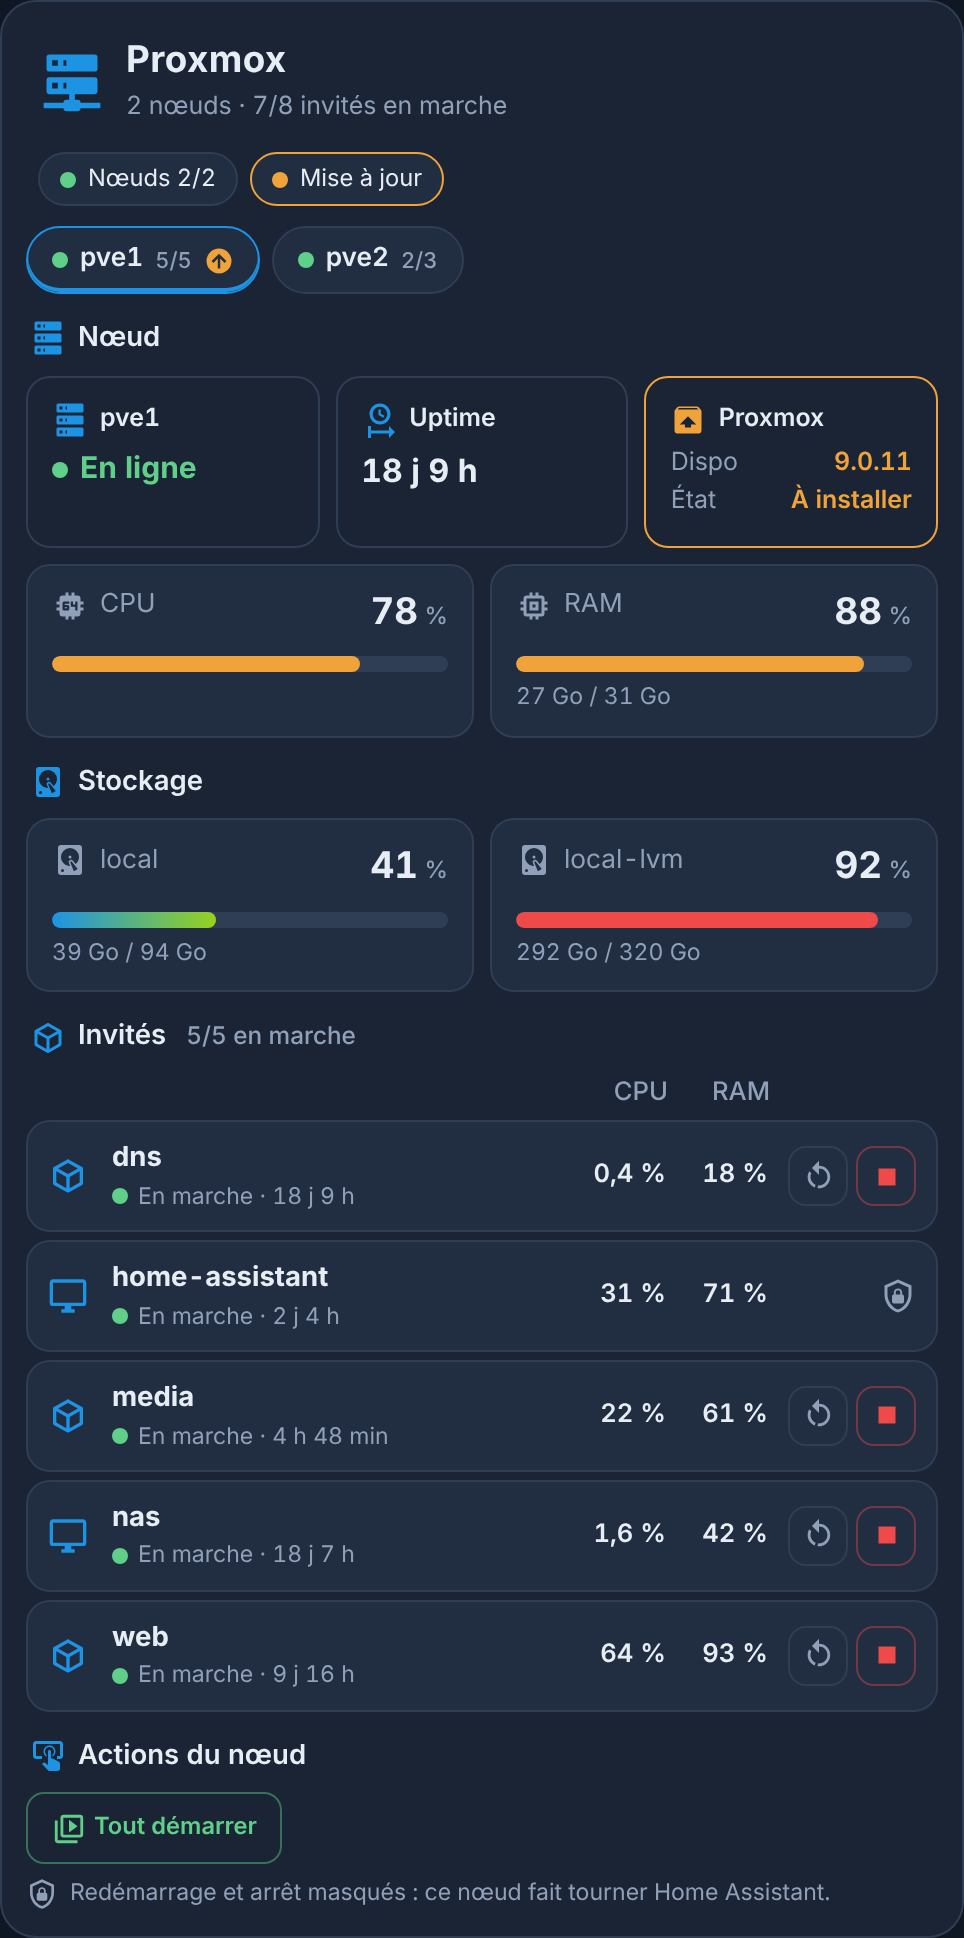
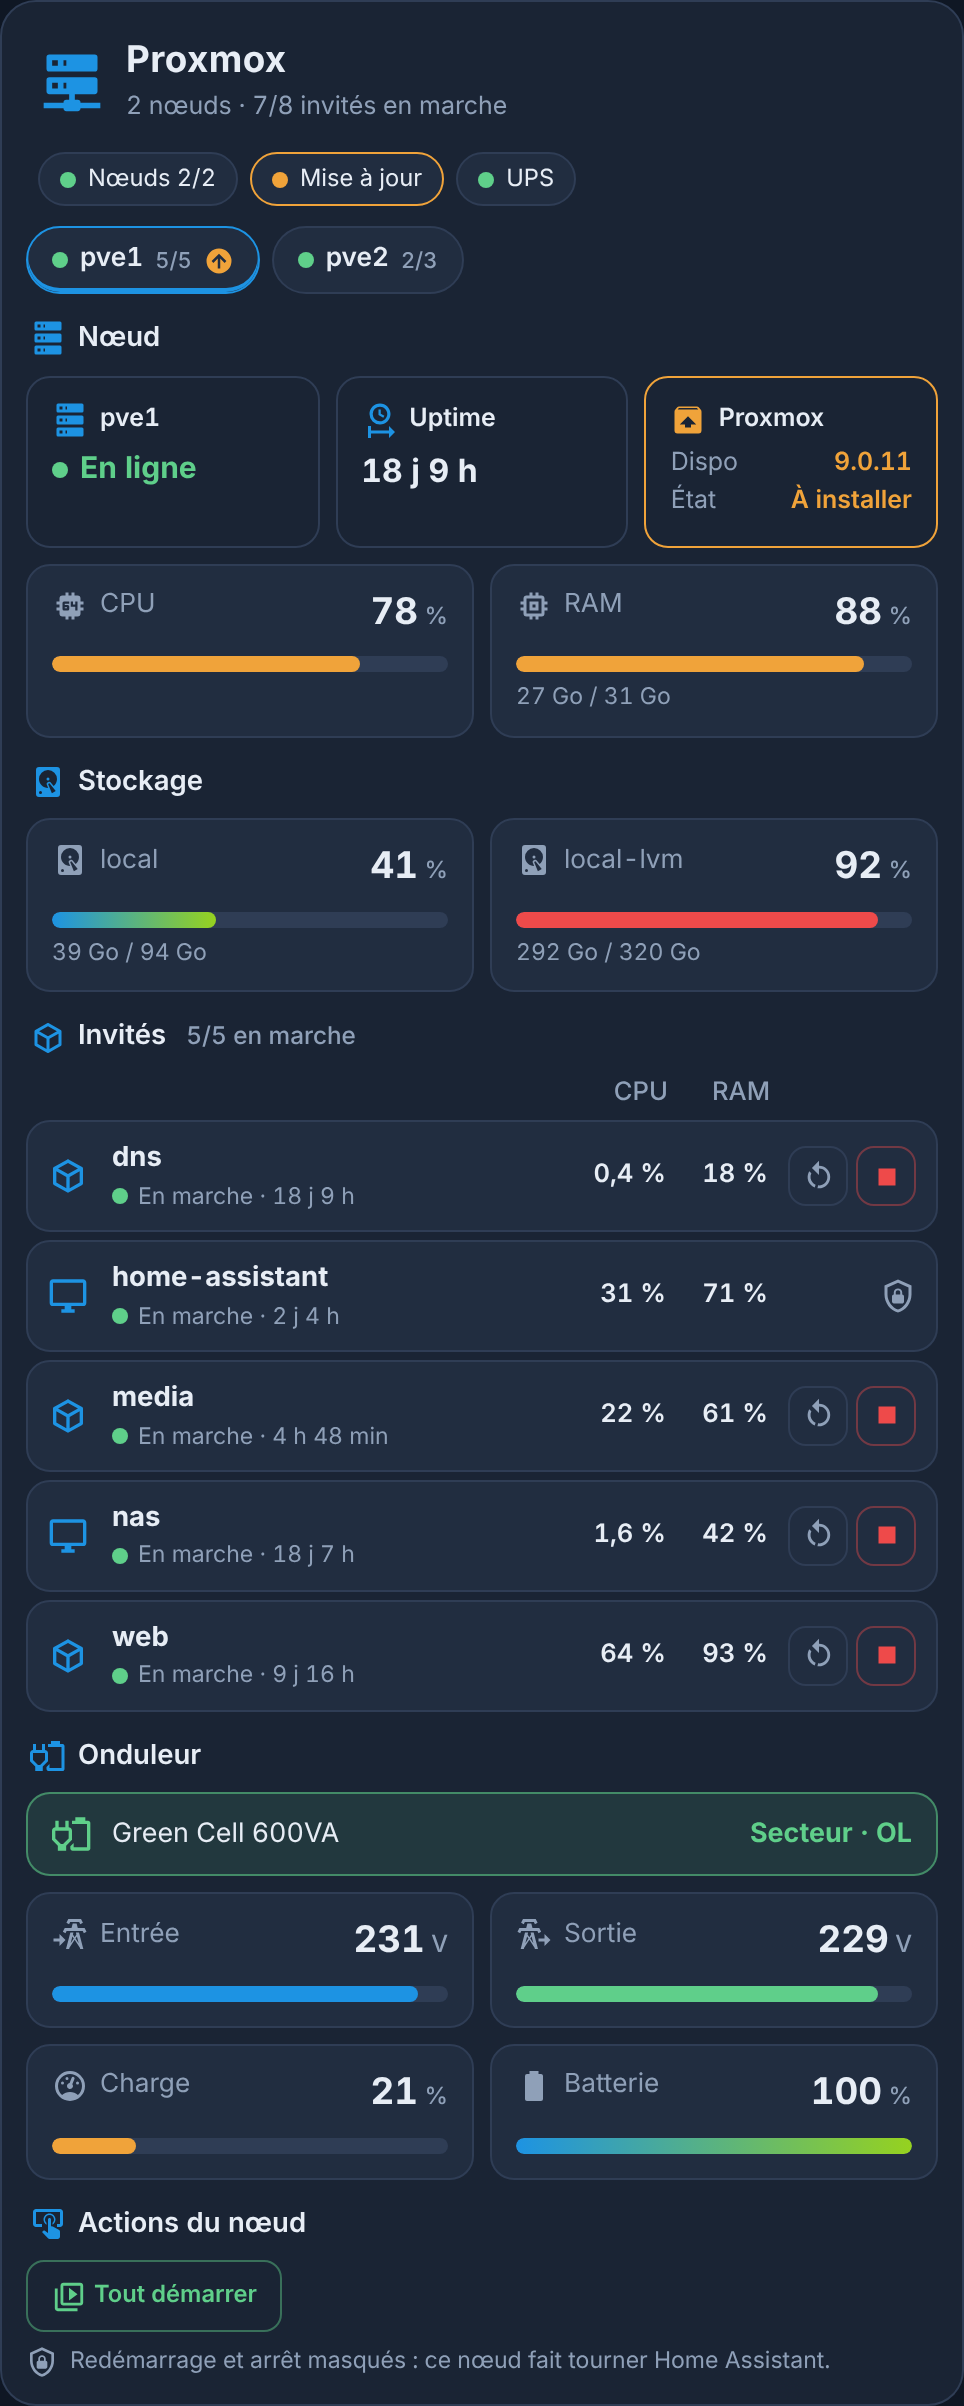
feat(proxmox): section Onduleur dans la carte Proxmox VE (0.6.0-beta)
Demande du forum HACF : un serveur Proxmox protégé par un onduleur, sans
NAS. La carte Proxmox affiche l'onduleur suivi par NUT (état secteur ou
batterie, tensions, charge, batterie, autonomie) avec un voyant UPS dans
l'en-tête et la bordure rouge sur batterie. Détection et affichage
partagés avec la carte NAS. Options show_ups, ups_device, ups_name.

Claude-Session: https://claude.ai/code/session_01CSixJnFf4qBMac7uTfNvnW

diff --git a/serveur-ha-card.js b/serveur-ha-card.js
@@ -17,7 +17,7 @@
  */
 
 (() => {
-const CARD_VERSION = "0.5.0";
+const CARD_VERSION = "0.6.0-beta";
 
 /* ------------------------------------------------------------- affichage */
 
@@ -811,6 +811,49 @@ const NAS_FR = {
 };
 const fr = (s) => (s == null ? s : NAS_FR[String(s).trim().toLowerCase()] || s);
 
+/** Capteurs NUT d'un onduleur : appareil choisi (ups_device), sinon le premier trouvé. */
+const nutMap = (hass, c) => {
+  const reg = hass.entities || {}, ids = Object.keys(hass.states || {});
+  const key = (id) => reg[id]?.translation_key;
+  const nut = ids.filter((id) => reg[id]?.platform === "nut" && id.startsWith("sensor."));
+  const upsDev = c.ups_device || reg[nut[0]]?.device_id;
+  const pool = nut.filter((id) => !upsDev || reg[id]?.device_id === upsDev);
+  const src = pool.length ? pool : ids.filter((id) => /^sensor\.ups_/.test(id));
+  const out = {}, used = new Set();
+  for (const [f, d] of Object.entries(NAS_UPS)) {
+    const id = (c.ups || {})[f] || src.find((x) => !used.has(x) && d.k.includes(key(x))) || src.find((x) => !used.has(x) && !key(x) && d.re.test(x));
+    if (id) { out[f] = id; used.add(id); }
+  }
+  return out;
+};
+
+/** Section Onduleur (cartes NAS et Proxmox) : état secteur ou batterie, tensions, charge, batterie. */
+const upsBlock = (card, u, c) => {
+  if (!Object.keys(u).length) return { html: "", ok: null };
+  const st = card._txt(u.status), raw = card._txt(u.status_raw);
+  const ok = !u.status && !u.status_raw ? null : (raw ? /\bOL\b/.test(raw) && !/\b(OB|LB|RB|OVER)\b/.test(raw) : /online|en ligne/i.test(st || ""));
+  const bar = (id, icon, label, max, cls) => {
+    const v = card._num(id);
+    return v === null ? "" : `<div class="srv-g ${cls}" data-entity="${esc(id)}"><div class="srv-gt"><span><ha-icon icon="${icon}"></ha-icon>${label}</span><b>${fmt(v, 0)}<small> ${esc(card._unit(id, ""))}</small></b></div>
+      <div class="g-bar"><i style="width:${Math.max(0, Math.min(100, (v / max) * 100))}%"></i></div></div>`;
+  };
+  const batt = card._num(u.battery);
+  const hass = card._hass;
+  const dev = hass.devices?.[hass.entities?.[u.status || u.status_raw || u.battery]?.device_id];
+  const name = c.ups_name || [dev?.manufacturer, dev?.model].filter(Boolean).join(" ") || dev?.name || "Onduleur";
+  const run = card._num(u.runtime);
+  const html = `<div class="srv-state ${ok === null ? "" : ok ? "ok" : "bad"} nas-ups" data-entity="${esc(u.status || u.status_raw || "")}">
+      <ha-icon icon="mdi:power-plug-battery-outline"></ha-icon><span>${esc(name)}</span><b>${esc([fr(st), raw].filter(Boolean).join(" · ") || "—")}</b></div>
+    <div class="srv-grid nas-ups-g">${[
+      bar(u.input, "mdi:transmission-tower-import", "Entrée", 250, "nas-in"),
+      bar(u.output, "mdi:transmission-tower-export", "Sortie", 250, "srv-in"),
+      bar(u.load, "mdi:gauge", "Charge", 100, "nas-load"),
+      batt === null ? "" : `<div class="srv-g" data-entity="${esc(u.battery)}"><div class="srv-gt"><span><ha-icon icon="mdi:battery"></ha-icon>Batterie</span><b>${fmt(batt, 0)}<small> %</small></b></div>
+        <div class="g-bar ${batt >= 50 ? "b-ok" : batt >= 20 ? "b-warn" : "b-alert"}"><i style="width:${batt}%"></i></div>${run !== null && card._unit(u.runtime, "s") === "s" ? `<div class="srv-gs">Autonomie ${Math.round(run / 60)} min</div>` : ""}</div>`,
+    ].join("")}</div>`;
+  return { html, ok };
+};
+
 const okWord = (s) => /^(normal|ok|online|en ligne|healthy|sain|bon)$/i.test(String(s || "").trim());
 
 class ServeurHaNasCard extends HTMLElement {
@@ -1219,6 +1262,7 @@ const PVE_DEFAULTS = {
   sort: "status", // status (en marche d'abord), name, cpu, ram
   hide_stopped: false,
   show_node: true, show_storage: true, show_guests: true, show_actions: true,
+  show_ups: true, // section Onduleur, quand un onduleur NUT est trouvé
   theme: "v2",
 };
 
@@ -1341,6 +1385,15 @@ class ServeurHaProxmoxCard extends HTMLElement {
     return Number.isFinite(v) ? v : null;
   }
 
+  _txt(id) {
+    const s = this._st(id)?.state;
+    return s === undefined || s === "unavailable" || s === "unknown" || s === "" ? null : s;
+  }
+
+  _unit(id, d = "") {
+    return this._st(id)?.attributes?.unit_of_measurement ?? d;
+  }
+
   _tabKey() {
     return `serveur-ha-proxmox:${this._config.title || ""}`;
   }
@@ -1412,7 +1465,7 @@ class ServeurHaProxmoxCard extends HTMLElement {
     const orphanSt = known.filter((s) => !nodes.some((n) => n.id === s.parent));
     if (list.length === 1) { list[0].guests.push(...orphans); list[0].storages.push(...orphanSt); }
     else if (orphans.length || orphanSt.length) list.push({ id: "_autres", name: "Autres", roles: {}, guests: orphans, storages: orphanSt, other: true });
-    this._map = { nodes: list, guests, storages };
+    this._map = { nodes: list, guests, storages, ups: c.show_ups !== false ? nutMap(hass, c) : {} };
     return this._map;
   }
 
@@ -1443,7 +1496,7 @@ class ServeurHaProxmoxCard extends HTMLElement {
     const m = this._resolve();
     if (this._tab === undefined) { try { this._tab = JSON.parse(localStorage.getItem(this._tabKey()) || "null"); } catch (e) { this._tab = null; } }
     const node = m.nodes.find((n) => n.id === this._tab) || m.nodes[0];
-    const ids = [...m.nodes, ...m.guests, ...m.storages].flatMap((d) => Object.values(d.roles));
+    const ids = [...[...m.nodes, ...m.guests, ...m.storages].flatMap((d) => Object.values(d.roles)), ...Object.values(m.ups || {})];
     // en attendant l'identifiant unique, seule la première série d'un stockage est rattachée à son nœud
     const sig = `${c.theme}|${this._hass.themes?.darkMode}|${node?.id}|${this._armed}|${Math.floor(Date.now() / 60000)}|` + ids.map((id) => this._st(id)?.state ?? "-").join("|");
     if (sig === this._sig) return;
@@ -1462,9 +1515,11 @@ class ServeurHaProxmoxCard extends HTMLElement {
     const updates = m.nodes.filter((n) => this._st(n.roles.update)?.state === "on");
     const down = m.nodes.filter((n) => !nodeUp(n));
     const led = (ok, label, id, cls = "") => `<span class="srv-led ${ok ? "ok" : "bad"} ${cls}" data-entity="${esc(id || "")}"><i></i>${label}</span>`;
+    const ups = upsBlock(this, m.ups || {}, c);
     const leds = m.nodes.length ? [
       led(!down.length, `Nœuds ${m.nodes.filter((n) => !n.other).length - down.length}/${m.nodes.filter((n) => !n.other).length}`, (down[0] || m.nodes[0]).roles.status),
       updates.length ? `<span class="srv-led upd" data-entity="${esc(updates[0].roles.update)}"><i></i>Mise à jour</span>` : "",
+      ups.ok === null ? "" : led(ups.ok, "UPS", m.ups.status || m.ups.status_raw),
     ].join("") : "";
 
     const sec = (icon, t, body, extra = "") => (body ? `<div class="srv-sec"><div class="srv-h"><ha-icon icon="${icon}"></ha-icon>${t}${extra}</div>${body}</div>` : "");
@@ -1549,10 +1604,11 @@ class ServeurHaProxmoxCard extends HTMLElement {
       body = tabs + nodeHtml
         + sec("mdi:harddisk", "Stockage", stor.length ? `<div class="srv-grid pve-res">${stor.join("")}</div>` : "")
         + sec(node.other ? "mdi:help-circle-outline" : "mdi:cube-outline", `Invités <small class="pve-n">${node.guests.filter(running).length}/${node.guests.length} en marche</small>`, rows.length ? `<div class="pve-list">${head}${rows.join("")}</div>` : "")
+        + sec("mdi:power-plug-battery-outline", "Onduleur", ups.html)
         + sec("mdi:gesture-tap-button", "Actions du nœud", nodeActs.length ? `<div class="pve-na">${nodeActs.join("")}</div>${guard ? `<div class="srv-gs pve-guard"><ha-icon icon="mdi:shield-lock-outline"></ha-icon>Redémarrage et arrêt masqués : ce nœud fait tourner Home Assistant.</div>` : ""}` : "");
     }
 
-    const alertCls = down.length ? "srv-alert" : "";
+    const alertCls = down.length || ups.ok === false ? "srv-alert" : "";
     this.shadowRoot.innerHTML = `${STYLE}${SRV_STYLE}${NAS_STYLE}${PVE_STYLE}<ha-card class="${themeClass(c.theme, this._hass)} ${alertCls}">
       <header>
         <div class="brand"><ha-icon class="srv-icon" icon="${esc(c.icon || "mdi:server-network")}" style="color:${esc(c.icon_color || "var(--med-blue)")}"></ha-icon>
@@ -2253,6 +2309,9 @@ const PVE_SCHEMA = [
   { name: "show_storage", selector: { boolean: {} } },
   { name: "show_guests", selector: { boolean: {} } },
   { name: "show_actions", selector: { boolean: {} } },
+  { name: "show_ups", selector: { boolean: {} } },
+  { name: "ups_device", selector: { device: { integration: "nut" } } },
+  { name: "ups_name", selector: { text: {} } },
   THEME_SELECT,
 ];
 const PVE_LABELS = {
@@ -2267,6 +2326,9 @@ const PVE_LABELS = {
   show_storage: "Section Stockage",
   show_guests: "Section Invités",
   show_actions: "Boutons démarrer, arrêter, redémarrer (deux clics)",
+  show_ups: "Section Onduleur (NUT)",
+  ups_device: "Onduleur (appareil NUT, facultatif)",
+  ups_name: "Nom de l'onduleur (facultatif)",
   theme: "Couleurs de la carte",
 };
 const ServeurHaProxmoxCardEditor = makeEditor(PVE_SCHEMA, PVE_LABELS, PVE_DEFAULTS);

diff --git a/docs/demo.html b/docs/demo.html
@@ -363,7 +363,7 @@
         : { type: "custom:serveur-ha-card", title: "Home Assistant (VM)", icon: "mdi:server", theme: t },
       maj: { type: "custom:serveur-ha-maj-card", theme: t },
       nas: { type: "custom:serveur-ha-nas-card", title: "Synology DS214+", volume_name: "HDD 4 To", ups_name: "Green Cell 600VA", actions: ["switch.ds214", "switch.minipc"], theme: t },
-      pve: { type: "custom:serveur-ha-proxmox-card", theme: t },
+      pve: { type: "custom:serveur-ha-proxmox-card", ups_name: "Green Cell 600VA", theme: t },
       dns: { type: "custom:serveur-ha-dns-card", theme: t },
     };
     return state.card === "all" ? Object.values(c) : [c[state.card]];

diff --git a/README.md b/README.md
@@ -227,6 +227,7 @@ Tout est détecté à partir de l'intégration **Proxmox VE** de Home Assistant 
 - **Stockage par nœud** : l'intégration crée un seul appareil par nom de stockage pour tous les nœuds ; la carte retrouve le nœud de chaque série de capteurs dans leur identifiant unique (registre des entités).
 
 > Pour un conteneur, « Arrêter » de l'intégration Proxmox VE est un **arrêt immédiat** (Stop), pas un arrêt propre du système. Pour un invité qui écrit sur disque (base de données, NAS), préférez l'arrêt depuis Proxmox.
+- **Onduleur** : si un onduleur est suivi par l'intégration **Network UPS Tools (NUT)**, la carte affiche son état (secteur ou batterie), les tensions d'entrée et de sortie, la charge et la batterie, avec un voyant **UPS** dans l'en-tête (rouge sur batterie). Pratique quand le serveur Proxmox est protégé par l'onduleur, sans NAS.
 - **Protection** : la VM qui fait tourner Home Assistant (nom contenant « haos » ou « home assistant ») n'a **ni arrêt ni redémarrage**, et son nœud non plus, pour ne pas couper Home Assistant d'un clic. L'option `protect` choisit d'autres invités.
 
 | Option | Rôle | Défaut |
@@ -236,7 +237,8 @@ Tout est détecté à partir de l'intégration **Proxmox VE** de Home Assistant 
 | `protect` | Invités sans arrêt ni redémarrage (liste de noms) | la VM Home Assistant |
 | `sort` | Ordre des invités : `status` (en marche d'abord), `name`, `cpu`, `ram` | `status` |
 | `hide_stopped` | Masquer les invités arrêtés | `false` |
-| `show_node`, `show_storage`, `show_guests`, `show_actions` | Afficher chaque section, et les boutons | `true` |
+| `ups_device`, `ups_name`, `ups` | Onduleur NUT (appareil, nom, capteurs) | le premier trouvé |
+| `show_node`, `show_storage`, `show_guests`, `show_actions`, `show_ups` | Afficher chaque section, et les boutons | `true` |
 | `theme` | `v2`, `auto` ou `ha` | `v2` |
 
 ```yaml
